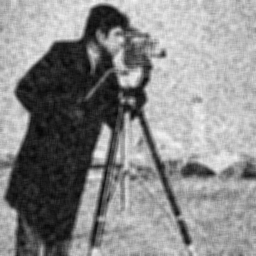
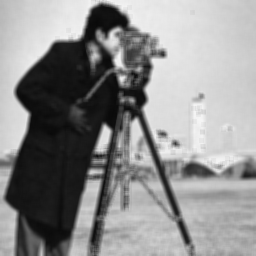
task2 imp

diff --git a/task2_filters/main.py b/task2_filters/main.py
@@ -1,54 +1,63 @@
 import numpy as np
 import cv2
-import os
 
-IMAGE_NOISY_PATH = 'resources/noisy.png'
 IMAGE_ORIGINAL_PATH = 'resources/original.png'
 
+OUT_NOISY_PATH = 'out/noisy.png'
 OUT_GAUSSIAN_PATH = 'out/gaussian.png'
 OUT_BILATERIAL_PATH = 'out/bilaterial.png'
-OUT_BILATERIAL_PATH2 = 'out/bilaterial2.png'
+OUT_NONLOCALMEANS_PATH = 'out/nonlocalmeans.png'
 
-
-img = cv2.imread(IMAGE_NOISY_PATH)
 imgOriginal = cv2.imread(IMAGE_ORIGINAL_PATH)
 
-if (img is None):
-    print("Can't read image '" + IMAGE_NOISY_PATH + "'")
-    exit(1)
-    
 if (imgOriginal is None):
-    print("Can't read origial image '" + IMAGE_ORIGINAL_PATH + "'")
+    print("Can't read original image '" + IMAGE_ORIGINAL_PATH + "'")
     exit(1)
-    
-img = cv2.cvtColor(img, cv2.COLOR_RGB2GRAY)
+
 imgOriginal = cv2.cvtColor(imgOriginal, cv2.COLOR_RGB2GRAY)
 
+def getNoised(image):
+    noise = np.zeros(image.shape)
+    cv2.randn(noise, 0, 5)
+    noise = noise.astype(np.int32)
+    noise[noise < 0] = 0
+    res = image.astype(np.int32) + noise
+    res[res < 0] = 0
+    res[res > 255] = 255
+    return res.astype(np.uint8)
+    
+imgNoisy = getNoised(imgOriginal)
+
 def noiseDiff(otherImage):
-    diffSum = 0
+    resMat = np.zeros(otherImage.shape).astype(otherImage.dtype)
     for i in range(0, otherImage.shape[0]):
         for j in range(0, otherImage.shape[1]):
-            diffSum += max(otherImage[i, j], imgOriginal[i, j]) - min(otherImage[i, j], imgOriginal[i, j])
-    return diffSum / (otherImage.shape[0] * otherImage.shape[1] * 1.0)
+            resMat[i, j] = max(otherImage[i, j], imgOriginal[i, j]) - min(otherImage[i, j], imgOriginal[i, j])
+    return resMat
+
 
 def gaussianFilter():
-    return cv2.GaussianBlur(img, (5,5), 5)
+    return cv2.GaussianBlur(imgNoisy, (5, 5), 5)
+
 
 def bilaterialFilter():
-    return cv2.bilateralFilter(img, 5, 150, 200)
+    return cv2.bilateralFilter(imgNoisy, 5, 50, 100)
 
-# output
-if not os.path.exists('out'):
-    os.mkdir('out')
 
+def nonlocalmeansFilter():
+    return cv2.fastNlMeansDenoising(imgNoisy, h=5, templateWindowSize=10)
+
+
+line0 = np.concatenate((imgOriginal, imgNoisy, noiseDiff(imgNoisy)), axis=1)
 imgGaussian = gaussianFilter()
-print("Gaussian noise cost: " + str(noiseDiff(imgGaussian)))
-cv2.imwrite(OUT_GAUSSIAN_PATH, imgGaussian)
+line1 = np.concatenate((imgNoisy, imgGaussian, noiseDiff(imgGaussian)), axis=1)
 
 imgBilaterial = bilaterialFilter()
-print("Bilaterial noise cost: " + str(noiseDiff(imgBilaterial)))
-cv2.imwrite(OUT_BILATERIAL_PATH, imgBilaterial)
+line2 = np.concatenate((imgNoisy, imgBilaterial, noiseDiff(imgBilaterial)), axis=1)
+imgNonlocalmeans = nonlocalmeansFilter()
+line3 = np.concatenate((imgNoisy, imgNonlocalmeans, noiseDiff(imgNonlocalmeans)), axis=1)
 
+resKartina = np.concatenate((line1, line2, line3), axis=0)
+cv2.imshow('Noisy image / Filtered / Diff', resKartina)
 
-
-    
+while (cv2.waitKey() != 27): None

diff --git a/task3_dots/main.py b/task3_dots/main.py
@@ -4,6 +4,7 @@ import os
 
 IMAGE_ORIGINAL_PATH = 'resources/original.png'
 IMAGE_TRANSFORMED_PATH = 'resources/transformed.png'
+THRESHOLD = 0.1
 
 imgA = cv2.imread(IMAGE_ORIGINAL_PATH)
 imgAGray = cv2.cvtColor(imgA,cv2.COLOR_BGR2GRAY)
@@ -22,7 +23,9 @@ imgB[dstB>0.1*dstB.max()]=[0,0,255]
 
 img = np.concatenate((imgA, imgB), axis=1)
 
-
+# for ai in range(0, imgA.shape[0]):
+#     for aj in range(0, imgA.shape[1]):
+        
 
 cv2.imshow('dsttt',img)
 if cv2.waitKey(0) & 0xff == 27:

diff --git a/task1_motion_detection/tools.py b/task1_motion_detection/tools.py
@@ -18,7 +18,7 @@ def map3dTo2d(arr, f):
     '''
     ftype = type(f(arr[0, 0, 0], arr[0, 0, 1], arr[0, 0, 2]))
     (height, width, _) = arr.shape
-    res = np.ndarray(shape=(height, width), dtype=ftype)
+    res = np.ndarray(shape=(height, width), dtype=ftype)    
     for i in range(0, height):
         for j in range(0, width):
             res[i, j] = f(arr[i, j, 0], arr[i, j, 1], arr[i, j, 2])
